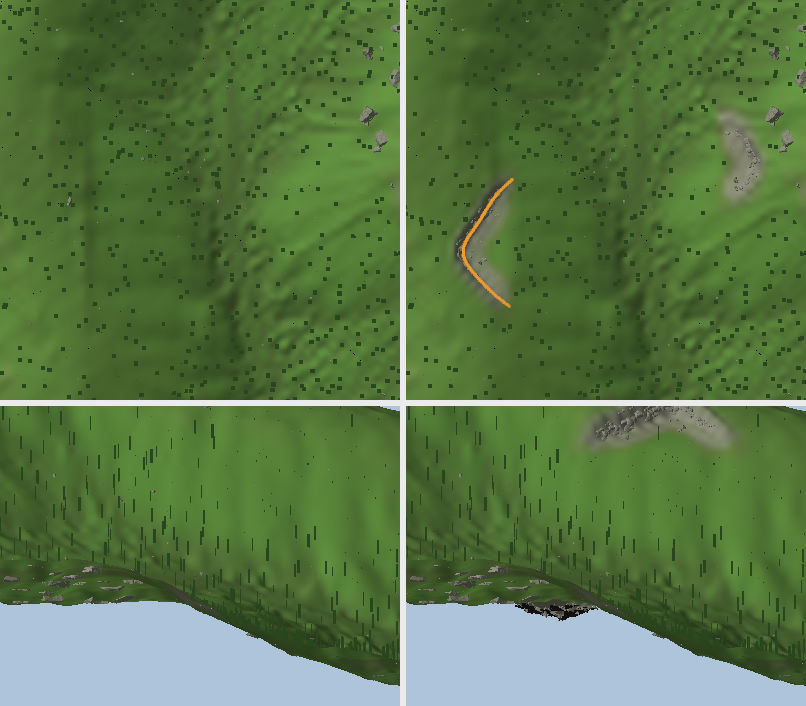
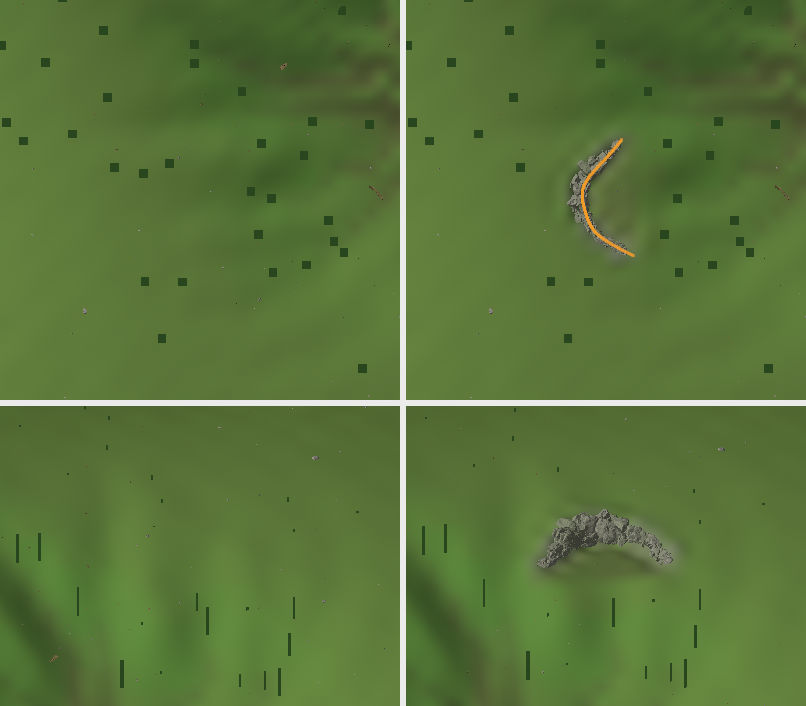
cretaceous: rock shoulders up to 96 pieces; camprobe back on 5.0's budget; review images of this pass
The six shoulders that filled the old 64-piece cap now finish their fill (coverage 98% -> 99%,
lowest 87% -> 94%). camprobe passes 5.0's own budget file again (248 frames): its dense-props spot is
no longer a shoulder's rock band. docs/terrain: capture_shoulder_1..4 (the real renderer with the
ground textures, previous version above and this pass below, from the mouth and from the side),
capture_shoulder_far (the four from 200 m), shoulder_1..6 and island.jpg redrawn.

Claude-Session: https://claude.ai/code/session_01RZAJPxAVSDceVh7zEDaU6G

diff --git a/ocean/cretaceous/tests/test_sim.c b/ocean/cretaceous/tests/test_sim.c
@@ -943,7 +943,8 @@ static void test_shoulders(void) {
         CHECK_CAPPED(top <= 0.05f, 5, "shoulder piece %d (%s, scale %.2f): its open edge stands %.2f m out of the ground", k, c->name[v], pc->scale, top);
     }
     for (int v = 0; v < PROP_MAX_VARIANTS; v++) free(edge[v]);
-    fprintf(stderr, "  %d rock pieces in them; open edges: %d showing, highest %.2f m against the ground; %d trunks in the rock\n", pieces, shown, worst, trees);
+    if (worst > -1e8f) fprintf(stderr, "  %d rock pieces in them; open edges: %d showing, highest %.2f m against the ground; %d trunks in the rock\n", pieces, shown, worst, trees);
+    else fprintf(stderr, "  %d rock pieces in them, all closed (no open edge); %d trunks in the rock\n", pieces, trees);
     if (w->nprops) CHECK(pieces >= m->nshoulder, "only %d rock pieces in %d rock shoulders", pieces, m->nshoulder);
     // The rock is the wall: from out in front of the mouth and from the hill beside it.
     if (w->nprops) {

diff --git a/ocean/cretaceous/render/props_place.c b/ocean/cretaceous/render/props_place.c
@@ -276,7 +276,7 @@ int prop_scatter(const PropCatalog* p, const TerraMap* m, int kind, int tx, int 
 // high in the seam and often a lower one in front, so the face reads as one irregular outcrop; then
 // rocks lodged on whatever wall is still bare from the review views (sh_fill). All pieces are outcrop
 // class (static convex colliders, never pushed about). Up to SH_PIECES a shoulder.
-#define SH_PIECES 64
+#define SH_PIECES 96
 #define SH_PIECE_MAX_H 10.0f   // the tallest piece (m); the bake plans no wall over terra.c SH_ROCK_MAX
 #define SH_SCALE_MAX 6.0f     // how far a scan is scaled up (its texture stretches with it)
 static void sh_rot(const float q[4], const float* p, float sc, float o[3]) { float b[3] = {p[0] * sc, p[1] * sc, p[2] * sc}; quat_rot(q, b, o); }
